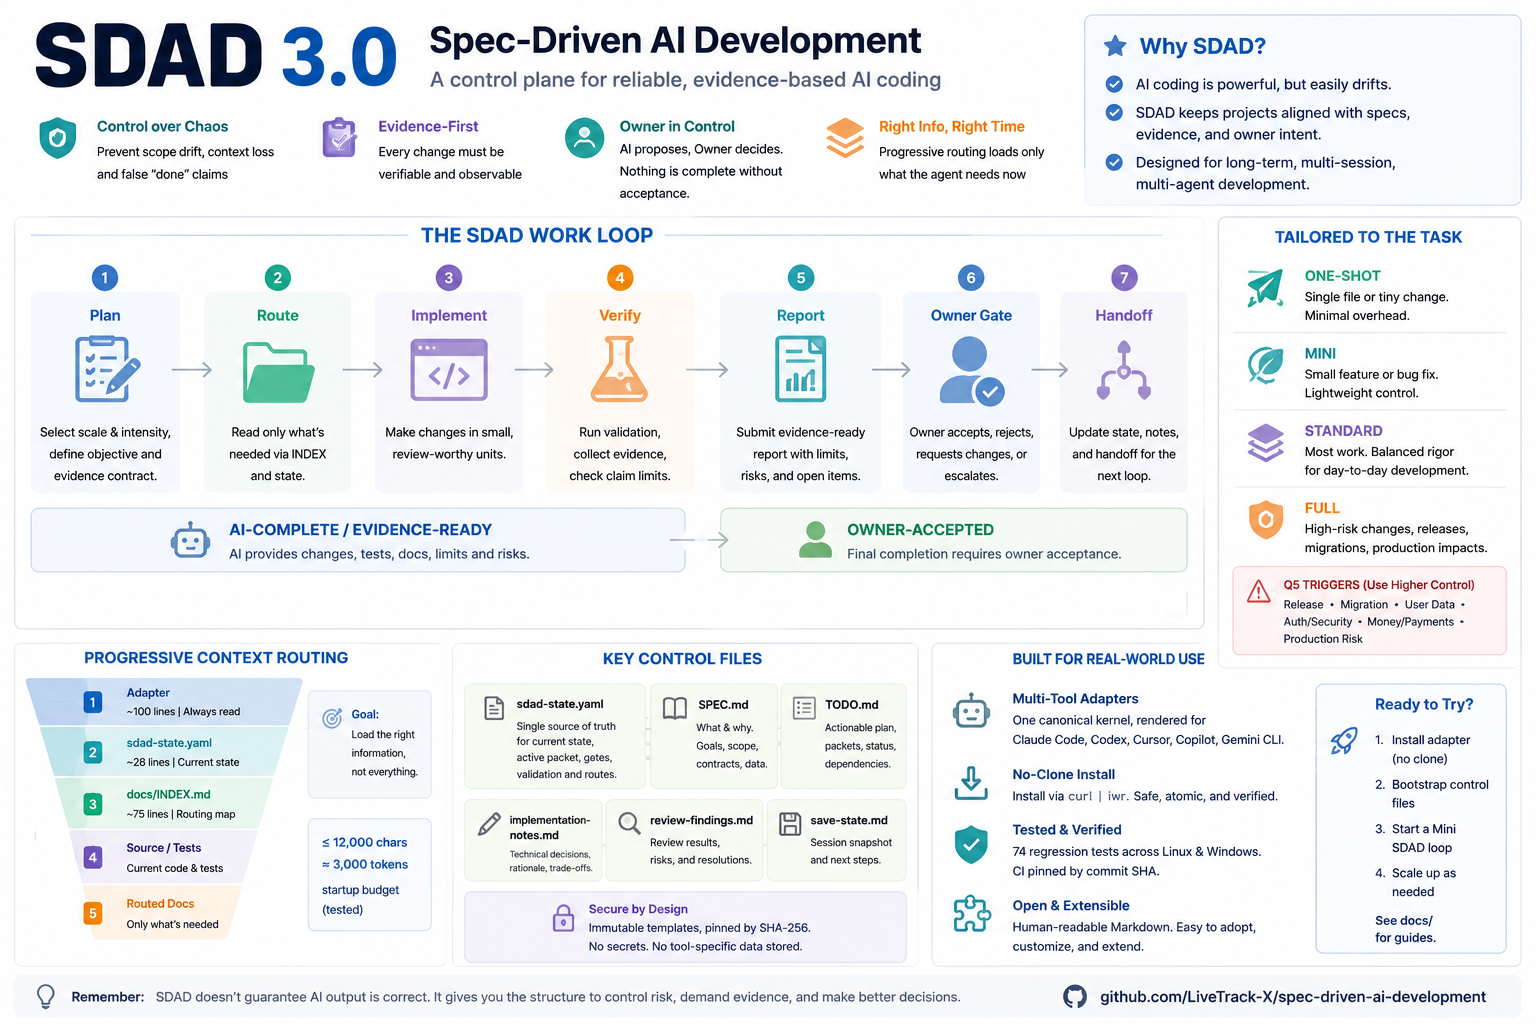
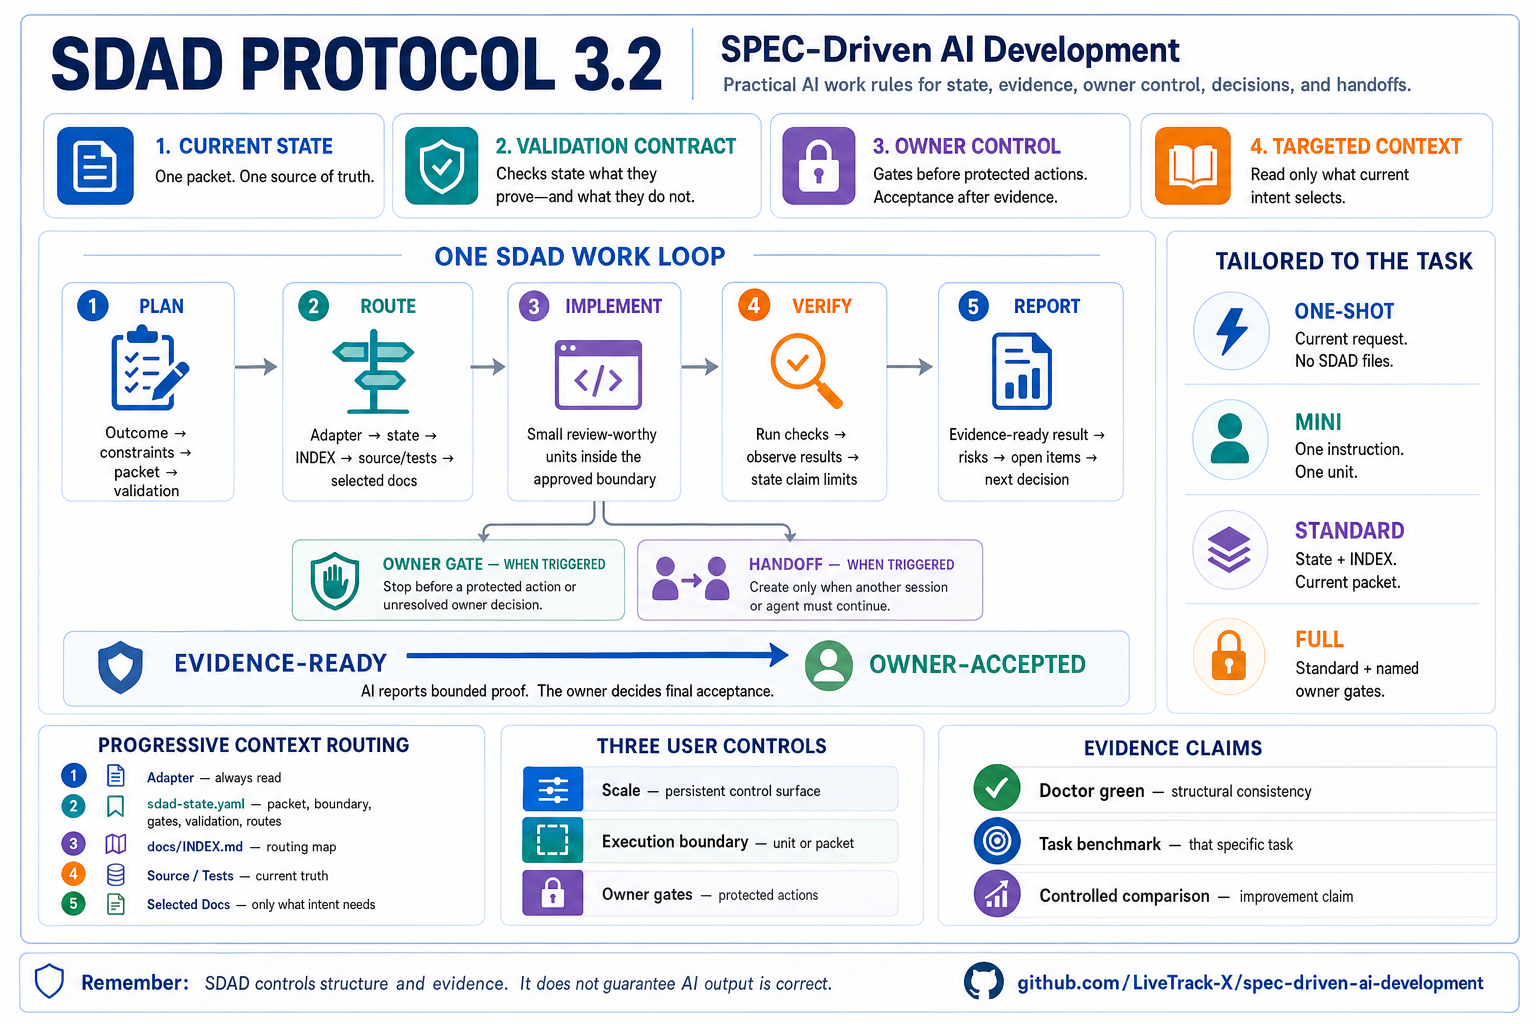
Replace the SDAD 3.2 overview artwork

Changed region(s): [[0.0, 0.0, 1.0, 1.0], [0.0, 0.5, 0.0312, 0.5625]]

diff --git a/tests/test_validate_repo.py b/tests/test_validate_repo.py
@@ -885,7 +885,7 @@ class DoctorGeminiDocumentationContractTests(unittest.TestCase):
                     re.search(r"\bdoctor\b|scripts[/\\]sdad\.py", content, flags=re.I)
                 )
 
-    def test_owner_artwork_and_expanded_copy_prompt_are_unchanged(self) -> None:
+    def test_v3_2_artwork_and_expanded_copy_prompt_are_canonical(self) -> None:
         readme = (ROOT / "README.md").read_text(encoding="utf-8")
         no_clone = (ROOT / "docs/no-clone-quick-install.md").read_text(
             encoding="utf-8"
@@ -899,7 +899,7 @@ class DoctorGeminiDocumentationContractTests(unittest.TestCase):
             hashlib.sha256(
                 (ROOT / "assets/spec-driven-ai-development-infographic.png").read_bytes()
             ).hexdigest(),
[2 lines of base64/hex data omitted]
         )
 
 

diff --git a/docs/diagrams.md b/docs/diagrams.md
@@ -157,10 +157,11 @@ flowchart TD
 
 Use these when a static or interactive visual is more useful than Mermaid:
 
-- `assets/spec-driven-ai-development-infographic.png`: original public overview
-  infographic retained by the README.
-- `assets/spec-driven-ai-development-infographic.svg`: editable, versionless
-  progressive-control-plane companion visual.
+- `assets/spec-driven-ai-development-infographic.png`: current SDAD Protocol 3.2
+  public overview used by the README.
+- `assets/spec-driven-ai-development-infographic.svg`: separate legacy,
+  versionless progressive-control-plane companion visual; it is not the
+  editable source for the README PNG.
 - `assets/sdad-control-loop.archify.png`: rendered SDAD Control Loop diagram.
 - `assets/sdad-control-loop.archify.html`: interactive Archify export for the
   same control loop.